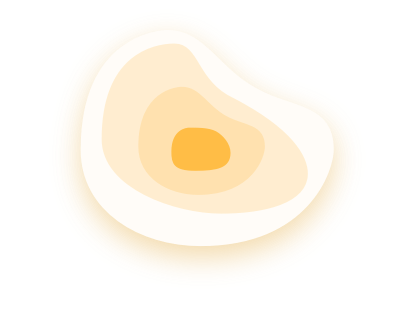
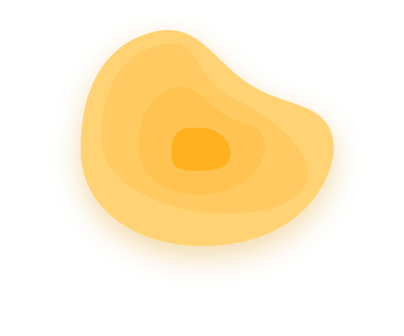
Create MediqQueryContext to detect the client device

Changed region(s): [[0.1782, 0.0893, 0.8317, 0.744]]

diff --git a/nekolotto_web/src/components/Footer/Footer.tsx b/nekolotto_web/src/components/Footer/Footer.tsx
@@ -1,14 +1,47 @@
-import React from "react";
+import React, { useState, useContext } from "react";
 import styles from "./styles";
+import { MediaQueryContext } from "../../contexts";
 
 const Footer = () => {
+  const { device } = useContext(MediaQueryContext);
+
+  const [bottomOffset, setBottomOffset] = useState(0);
+
   return (
-    <footer style={styles.footer}>
-      <ul style={styles.ul}>
+    <footer
+      style={styles.footer}
+      onLoad={(e: any) => {
+        setBottomOffset(e.currentTarget.clientHeight);
+      }}
+    >
+      {device !== "mobile" && (
+        <div style={{ ...styles.bgContainer, bottom: `${bottomOffset - 1}px` }}>
+          <img
+            style={styles.imgPolyShape}
+            src="/assets/images/bg-abstrack-footer.svg"
+            alt=""
+          />
+        </div>
+      )}
+      <ul
+        style={
+          device !== "mobile"
+            ? { ...styles.ul, ...styles.desktopUl }
+            : styles.ul
+        }
+      >
         <li style={styles.li}>Privacy Policy</li>
         <li>Terms of conditions</li>
       </ul>
-      <p style={styles.caption}>Copyright 2020 ©Yongmin Kim</p>
+      <p
+        style={
+          device !== "mobile"
+            ? { ...styles.caption, ...styles.desktopCaption }
+            : styles.caption
+        }
+      >
+        Copyright 2020 ©Yongmin Kim
+      </p>
     </footer>
   );
 };

diff --git a/nekolotto_web/src/contexts/MediaQueryContext/MediaQueryContext.tsx b/nekolotto_web/src/contexts/MediaQueryContext/MediaQueryContext.tsx
@@ -1,0 +1,43 @@
+import React, { Component, createContext } from "react";
+
+const MediaQueryContext = createContext<{ [key: string]: any }>({});
+
+export class MediaQueryProvider extends Component {
+  readonly state = {
+    screenWidth: window.screen.width,
+    device:
+      window.screen.width < 768
+        ? "mobile"
+        : window.screen.width < 992
+        ? "tablet"
+        : "desktop"
+  };
+
+  componentDidMount() {
+    window.addEventListener("resize", this.resizeHandler);
+  }
+
+  componentWillUnmount() {
+    window.removeEventListener("resize", this.resizeHandler);
+  }
+
+  resizeHandler = () => {
+    const newWidth = window.screen.width;
+
+    this.setState({ screenWidth: newWidth });
+
+    this.setState({
+      device: newWidth < 768 ? "mobile" : newWidth < 992 ? "tablet" : "desktop"
+    });
+  };
+
+  render() {
+    return (
+      <MediaQueryContext.Provider value={{ device: this.state.device }}>
+        {this.props.children}
+      </MediaQueryContext.Provider>
+    );
+  }
+}
+
+export default MediaQueryContext;

diff --git a/nekolotto_web/src/components/Footer/styles.tsx b/nekolotto_web/src/components/Footer/styles.tsx
@@ -3,6 +3,7 @@ import { themes } from "../../config/themes";
 
 const styles: { [key: string]: React.CSSProperties } = {
   footer: {
+    position: "relative",
     width: "100vw",
     padding: `24px 12px 16px 12px`,
     backgroundColor: themes.color.black,
@@ -13,12 +14,29 @@ const styles: { [key: string]: React.CSSProperties } = {
     marginBottom: 24,
     color: themes.color.yellow
   },
+  desktopUl: {
+    justifyContent: "center"
+  },
   li: {
     marginRight: 24
   },
   caption: {
     fontSize: themes.fontSize.xs,
     color: themes.color.grey
+  },
+  desktopCaption: { textAlign: "center" },
+  bgContainer: {
+    position: "absolute",
+    width: "100vw",
+    overflowX: "hidden",
+    left: 0
+  },
+  imgPolyShape: {
+    position: "relative",
+    display: "block",
+    width: "102vw",
+    left: "50%",
+    transform: "translateX(-50%)"
   }
 };
 

diff --git a/nekolotto_web/src/index.tsx b/nekolotto_web/src/index.tsx
@@ -2,19 +2,21 @@ import React from "react";
 import ReactDOM from "react-dom";
 import { BrowserRouter as Router } from "react-router-dom";
 import Routes from "./routes";
-import { LoadingProvider } from "./contexts";
+import { LoadingProvider, MediaQueryProvider } from "./contexts";
 import "./index.css";
 import * as serviceWorker from "./serviceWorker";
 import { ScrollToTop } from "./components";
 
 const App = () => {
   return (
-    <LoadingProvider>
-      <Router>
-        <ScrollToTop />
-        <Routes />
-      </Router>
-    </LoadingProvider>
+    <MediaQueryProvider>
+      <LoadingProvider>
+        <Router>
+          <ScrollToTop />
+          <Routes />
+        </Router>
+      </LoadingProvider>
+    </MediaQueryProvider>
   );
 };
 

diff --git a/nekolotto_web/src/config/themes.tsx b/nekolotto_web/src/config/themes.tsx
@@ -24,5 +24,8 @@ export const themes = {
     height: "100vh",
     backdropFilter: "blur(1px)",
     backgroundColor: "rgba(0, 0, 0, 0.8)"
+  },
+  animation: {
+    default: "all 200ms ease-in-out"
   }
 };

diff --git a/nekolotto_web/src/contexts/index.tsx b/nekolotto_web/src/contexts/index.tsx
@@ -1,1 +1,5 @@
 export { default as LoadingContext, LoadingProvider } from "./LoadingContext";
+export {
+  default as MediaQueryContext,
+  MediaQueryProvider
+} from "./MediaQueryContext";

diff --git a/nekolotto_web/src/routes/index.tsx b/nekolotto_web/src/routes/index.tsx
@@ -27,6 +27,7 @@ const Routes = () => {
               />
               <Redirect from="*" to="/" />
             </Switch>
+
             <Footer />
           </>
         );

diff --git a/nekolotto_web/src/contexts/MediaQueryContext/index.tsx b/nekolotto_web/src/contexts/MediaQueryContext/index.tsx
@@ -1,0 +1,3 @@
+import MediaQueryContext from "./MediaQueryContext";
+export { MediaQueryProvider } from "./MediaQueryContext";
+export default MediaQueryContext;
